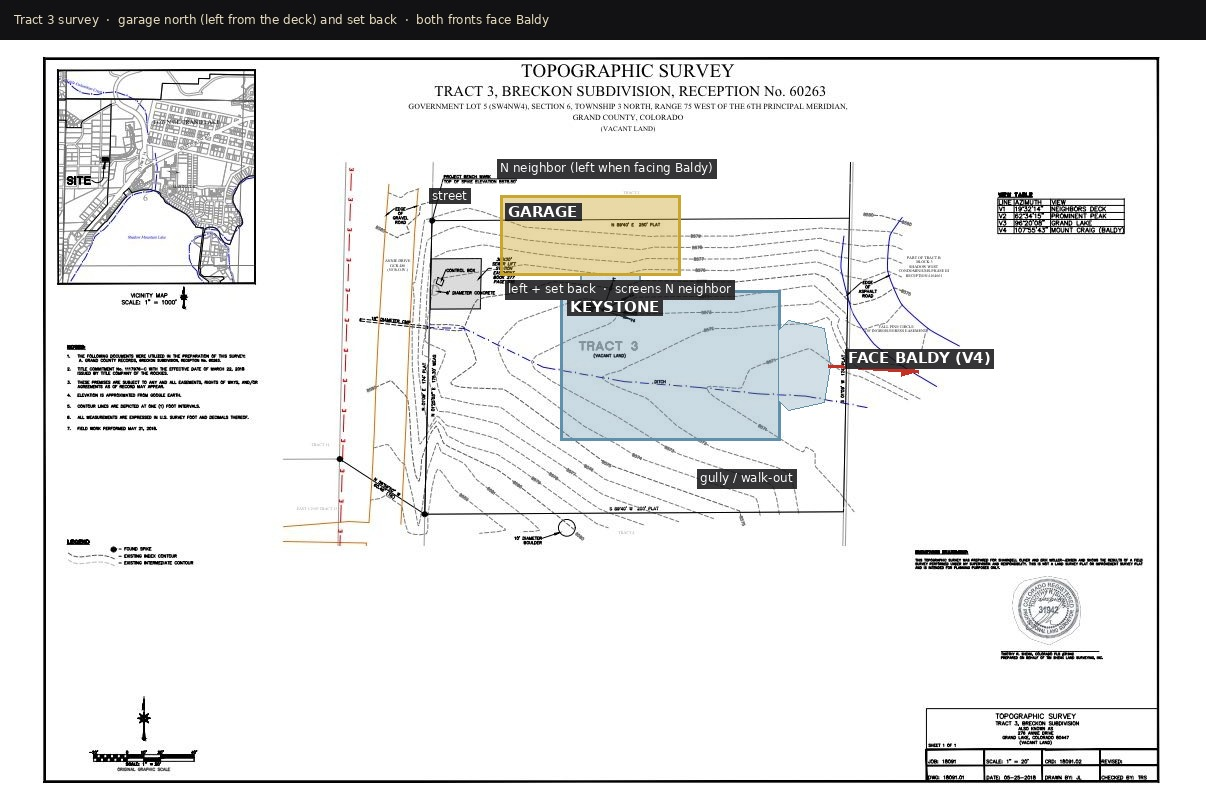
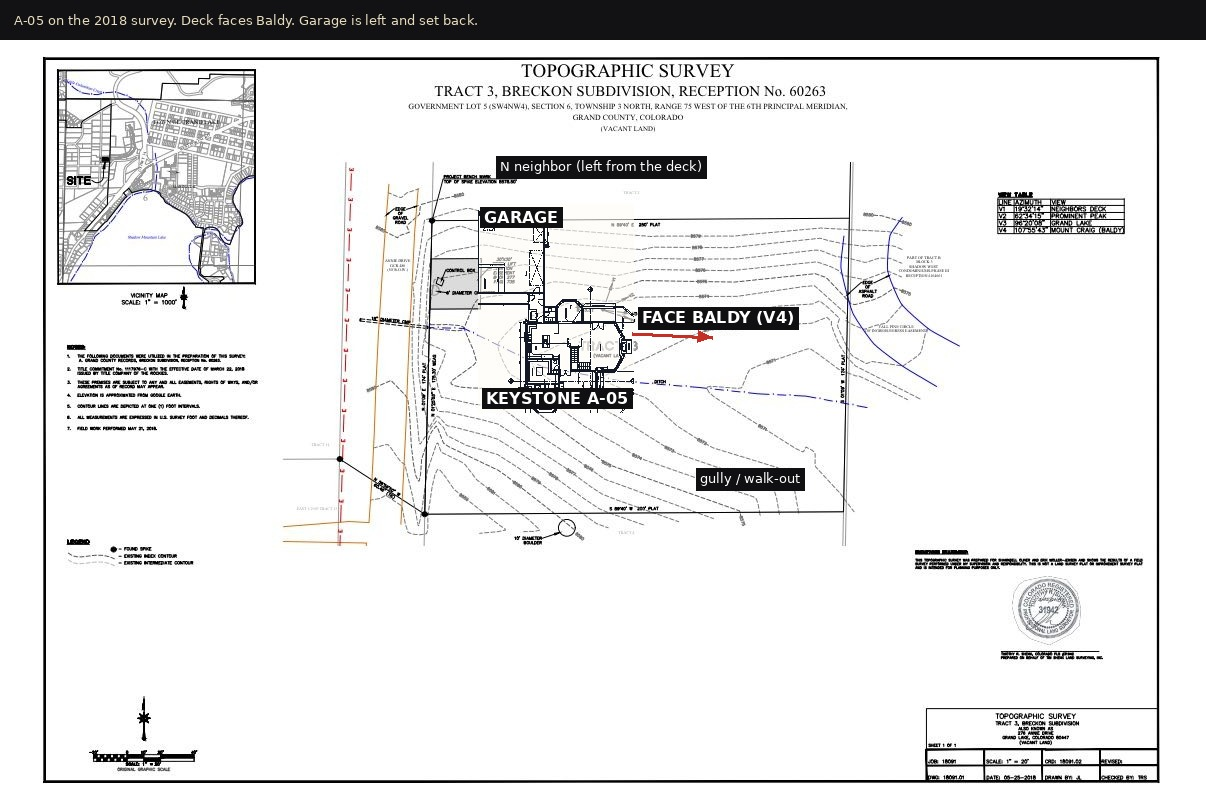
Keystone site: A-05 main level on aerial and 2018 survey, garage left and set back

Changed region(s): [[0.3375, 0.1809, 0.8284, 0.6332], [0.0, 0.0, 0.4602, 0.0302]]

diff --git a/assets/tjs-proctor/index.html b/assets/tjs-proctor/index.html
@@ -291,25 +291,25 @@ footer a { color: var(--blue); }
 
   <div class="section-label" id="site">276 GCR 480 — siting</div>
   <div class="cover-card">
-    <img class="cover-render" src="site/276-gcr-480-aerial-siting.jpg" alt="Aerial siting — garage left and set back, house and garage face Baldy">
+    <img class="cover-render" src="site/276-gcr-480-aerial-siting.jpg" alt="A-05 main level on the aerial — garage left and set back, deck faces Baldy">
     <div class="cover-meta">
       <div>
         <h2>276 GCR 480 / Annie Drive</h2>
         <div class="meta-sub">
-          From the deck, Baldy is ahead. Garage is left and set back. It screens the north neighbor. Both fronts face Baldy. Walk-out falls to the gully.
+          A-05 main level on the lot. From the deck, Baldy is ahead. Garage is left and set back. It screens the north neighbor. Walk-out falls to the gully.
         </div>
       </div>
       <div style="display:flex;gap:8px;flex-wrap:wrap;align-items:flex-start">
         <span class="badge">Stan 4 Sep 2026</span>
-        <span class="badge">Garage left + set back</span>
+        <span class="badge">A-05 on the aerial</span>
       </div>
     </div>
   </div>
   <div class="sheet-card">
     <div class="sheet-header">
       <span class="sheet-num">Site</span>
-      <span class="sheet-title">Same call on the 2018 survey</span>
-      <span class="sheet-desc">Garage north of the house, set back toward the street. Fronts face V4 Baldy.</span>
+      <span class="sheet-title">A-05 on the 2018 survey</span>
+      <span class="sheet-desc">Same rotation. Garage north, set back toward the street. Deck faces V4 Baldy.</span>
     </div>
     <img class="sheet-img" src="site/276-gcr-480-topo-siting.jpg" alt="Tract 3 topo — garage left and set back, house faces Baldy">
     <div class="sheet-notes">
